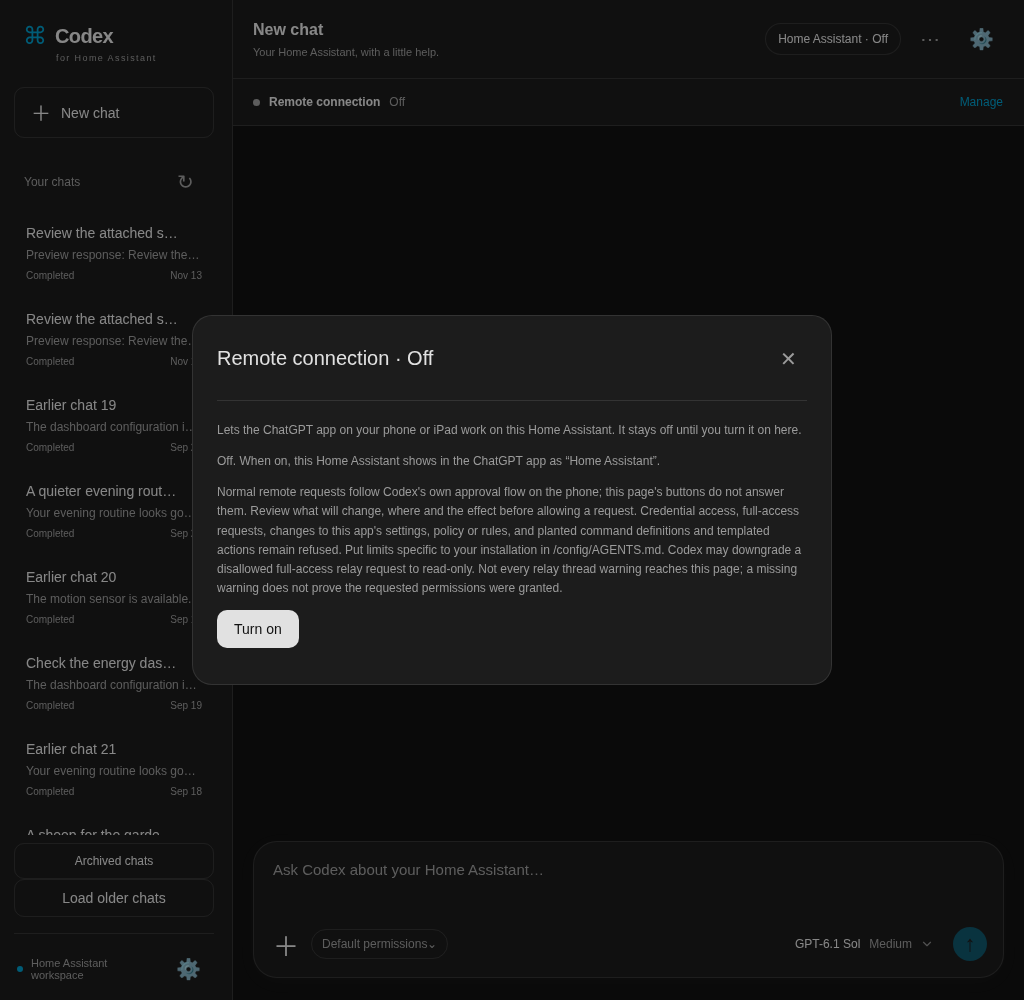
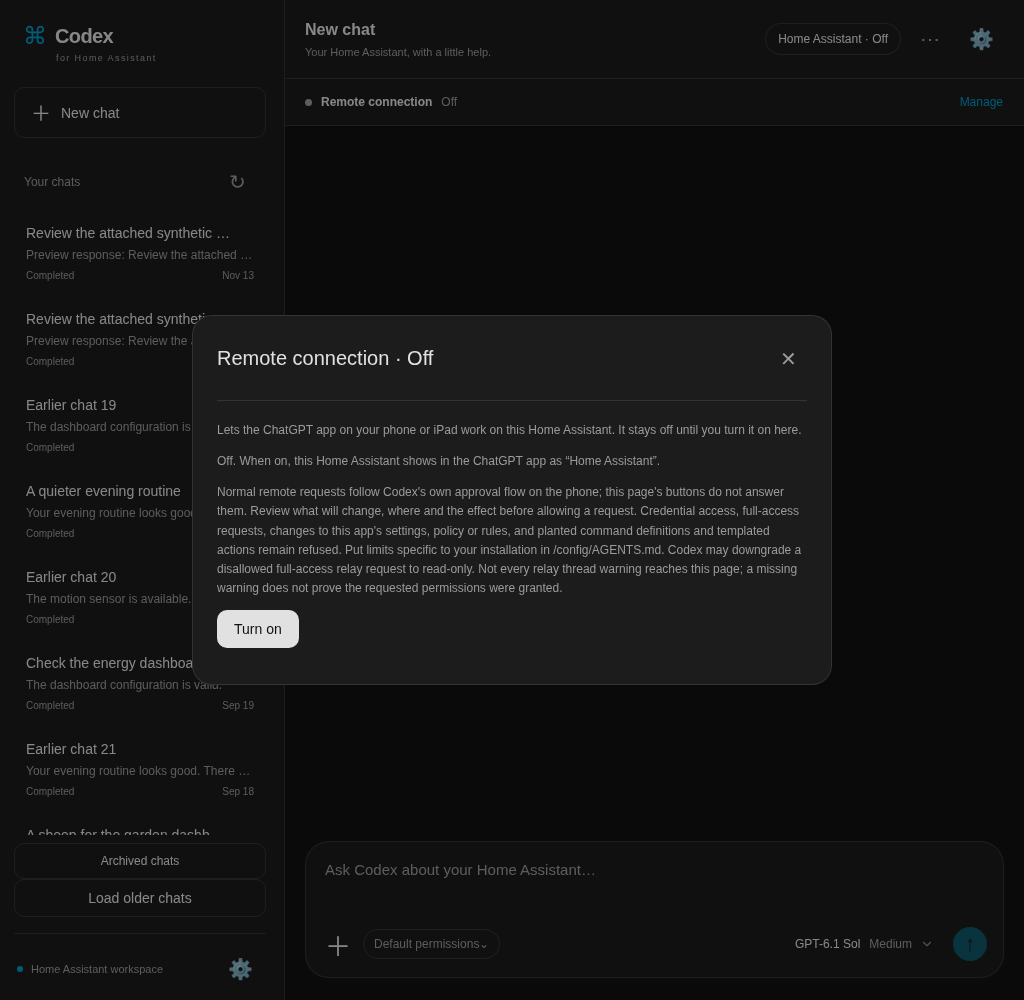
Preserve the sidebar resize control on tablets

diff --git a/codex-cli-worker/web/assets/studio.css b/codex-cli-worker/web/assets/studio.css
@@ -101,7 +101,6 @@ dialog::backdrop { background: #0006; }
 #workspace-section > h3 { display: none; }
 #agents { width: 100%; background: var(--bg); color: var(--text); border: 1px solid var(--line); padding: 12px; border-radius: 10px; }
 @media (max-width: 1050px) and (min-width: 701px) {
-  .app { --sidebar-width: 228px; }
   .chat-header { padding: 14px 20px; }
   .connection-chip { max-width: 220px; }
   .connection-strip { padding: 12px 20px; flex-wrap: wrap; }
